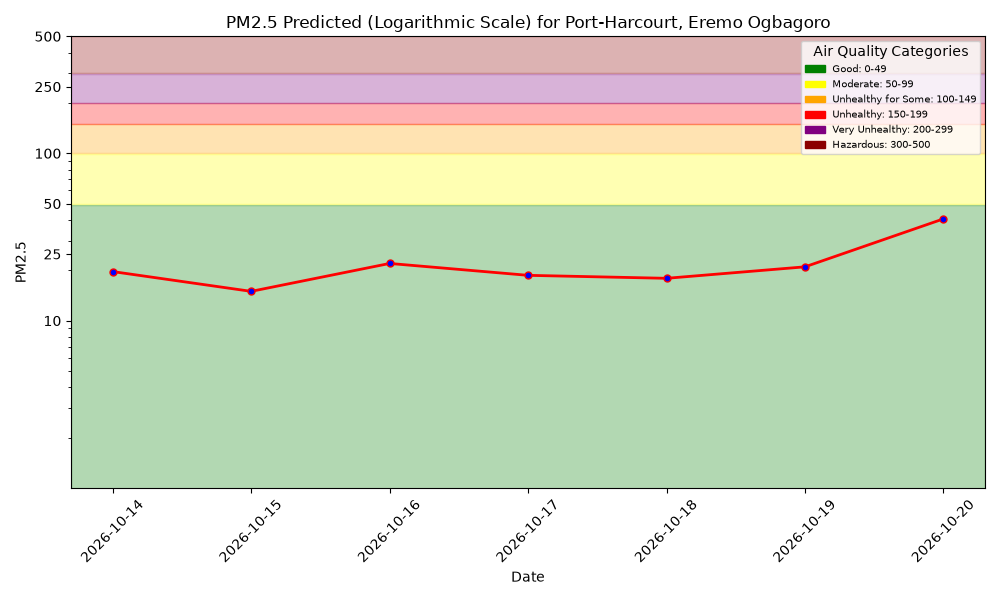
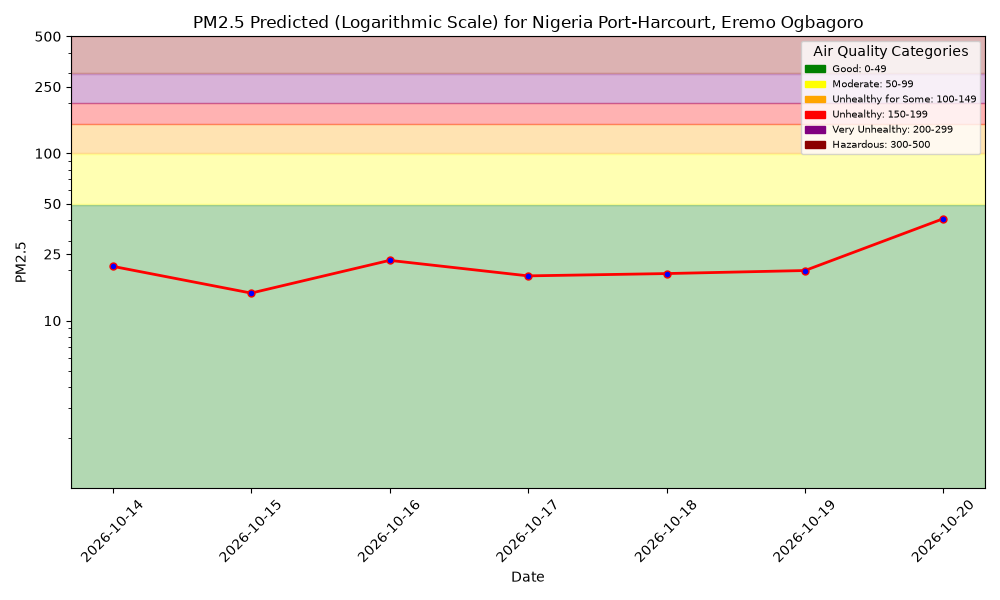
Setting up for building evidently repots and dashboards

diff --git a/src/training_pipeline/train.py b/src/training_pipeline/train.py
@@ -4,6 +4,7 @@ from pathlib import Path
 
 import feast.mlflow
 import pandas as pd
+from catboost import CatBoostRegressor
 from feast import FeatureStore
 from lightgbm import LGBMRegressor
 from sklearn.ensemble import HistGradientBoostingRegressor, RandomForestRegressor
@@ -13,7 +14,17 @@ from xgboost import XGBRegressor
 REPO_ROOT = Path(__file__).resolve().parents[2]
 FEATURE_REPO = REPO_ROOT / "src/feature_repo"
 FEATURE_SERVICE_NAME = "pm25_regression"
+MODEL_NAME = FEATURE_SERVICE_NAME
 ENTITY_COLUMNS = ["city", "country", "street", "date"]
+SKLEARN_SKOPS_TRUSTED_TYPES = [
+    "sklearn.tree._tree.Tree",
+    "sklearn.ensemble._hist_gradient_boosting.predictor.TreePredictor",
+]
+LIGHTGBM_SKOPS_TRUSTED_TYPES = [
+    "collections.OrderedDict",
+    "lightgbm.basic.Booster",
+    "lightgbm.sklearn.LGBMRegressor",
+]
 
 
 def create_feature_store() -> FeatureStore:
@@ -55,6 +66,7 @@ def train_and_evaluate_model(
     model,
 ) -> None:
     with store.mlflow.start_run(nested=True):
+        mlflow_client = store.mlflow.mlflow
         historical_df = (
             store.get_historical_features(
                 entity_df=entity_df,
@@ -79,8 +91,33 @@ def train_and_evaluate_model(
         ytrain = train_df[target].ffill()
         yval = val_df[target].ffill()
 
+        train_dataset_df = pd.concat([Xtrain, ytrain], axis=1)
+        val_dataset_df = pd.concat([Xval, yval], axis=1)
+        train_dataset = mlflow_client.data.from_pandas(
+            train_dataset_df,
+            targets=target[0],
+            name="train",
+        )
+        val_dataset = mlflow_client.data.from_pandas(
+            val_dataset_df,
+            targets=target[0],
+            name="val",
+        )
+        mlflow_client.log_inputs(
+            [train_dataset, val_dataset],
+            contexts=["training", "validation"],
+            tags_list=[None, None],
+        )
+
         model.fit(Xtrain, ytrain)
         print(f"Fit {model.__class__.__name__}!")
+
+        model_params = (
+            model.get_all_params()
+            if isinstance(model, CatBoostRegressor)
+            else model.get_params()
+        )
+        mlflow_client.log_params(model_params)
 
         train_rmse = root_mean_squared_error(ytrain, model.predict(Xtrain))
         val_rmse = root_mean_squared_error(yval, model.predict(Xval))
@@ -91,13 +128,68 @@ def train_and_evaluate_model(
         print(f"\tR2: \n\t\tTrain -> {train_r2: .2f}\n\t\tVal -> {val_r2: .2f}")
         print()
 
-        feast.mlflow.log_metrics(
+        mlflow_client.log_metrics(
             {
                 "train_rmse": train_rmse,
                 "val_rmse": val_rmse,
                 "train_r2": train_r2,
                 "val_r2": val_r2,
             }
+        )
+
+        input_example = Xtrain.iloc[[0]]
+        output_example = model.predict(input_example)
+        signature = mlflow_client.models.infer_signature(
+            input_example,
+            output_example,
+        )
+        if isinstance(model, CatBoostRegressor):
+            mlflow_client.catboost.log_model(
+                model,
+                name=MODEL_NAME,
+                input_example=input_example,
+                signature=signature,
+            )
+            # Feast's model wrapper does not map the CatBoost flavor yet.
+            feast.mlflow.log_params(model.get_all_params())#_log_required_features()
+        else:
+            flavor = (
+                "xgboost"
+                if isinstance(model, XGBRegressor)
+                else "lightgbm"
+                if isinstance(model, LGBMRegressor)
+                else "sklearn"
+            )
+            if flavor == "sklearn":
+                store.mlflow.log_model(
+                    model,
+                    artifact_path=FEATURE_SERVICE_NAME,
+                    flavor=flavor,
+                    input_example=input_example,
+                    signature=signature,
+                    skops_trusted_types=SKLEARN_SKOPS_TRUSTED_TYPES,
+                )
+            elif flavor == "lightgbm":
+                store.mlflow.log_model(
+                    model,
+                    artifact_path=FEATURE_SERVICE_NAME,
+                    flavor=flavor,
+                    input_example=input_example,
+                    signature=signature,
+                    skops_trusted_types=LIGHTGBM_SKOPS_TRUSTED_TYPES,
+                )
+            else:
+                store.mlflow.log_model(
+                    model,
+                    artifact_path=FEATURE_SERVICE_NAME,
+                    flavor=flavor,
+                    input_example=input_example,
+                    signature=signature,
+                )
+
+        mlflow_client.log_dict(
+            {target[0]: float(output_example[0])},
+            "examples/output_example.json",
         )
 
 
@@ -107,15 +199,12 @@ def main() -> None:
     store = create_feature_store()
     entity_df = load_entity_df()
 
-    feast.mlflow.sklearn.autolog()
-    feast.mlflow.xgboost.autolog()
-    feast.mlflow.lightgbm.autolog()
-
     models = [
         XGBRegressor(random_state=23),
         LGBMRegressor(random_state=25),
         RandomForestRegressor(random_state=23),
         HistGradientBoostingRegressor(random_state=23),
+        CatBoostRegressor(random_seed=23, verbose=False),
     ]
     run_timestamp = datetime.now(timezone.utc).strftime("%Y%m%dT%H%M%SZ")
     with store.mlflow.start_run(f"baseline_{run_timestamp}"):
